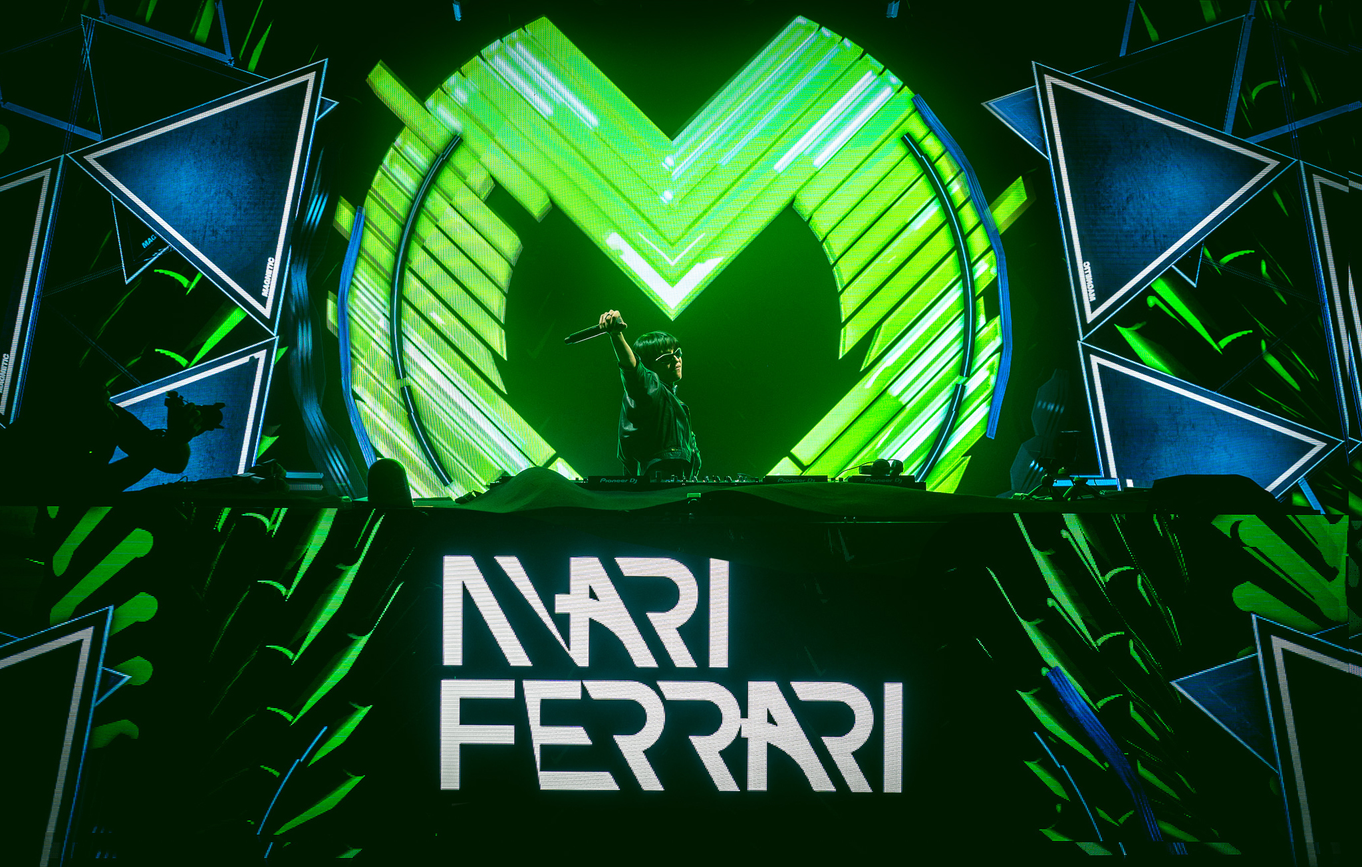
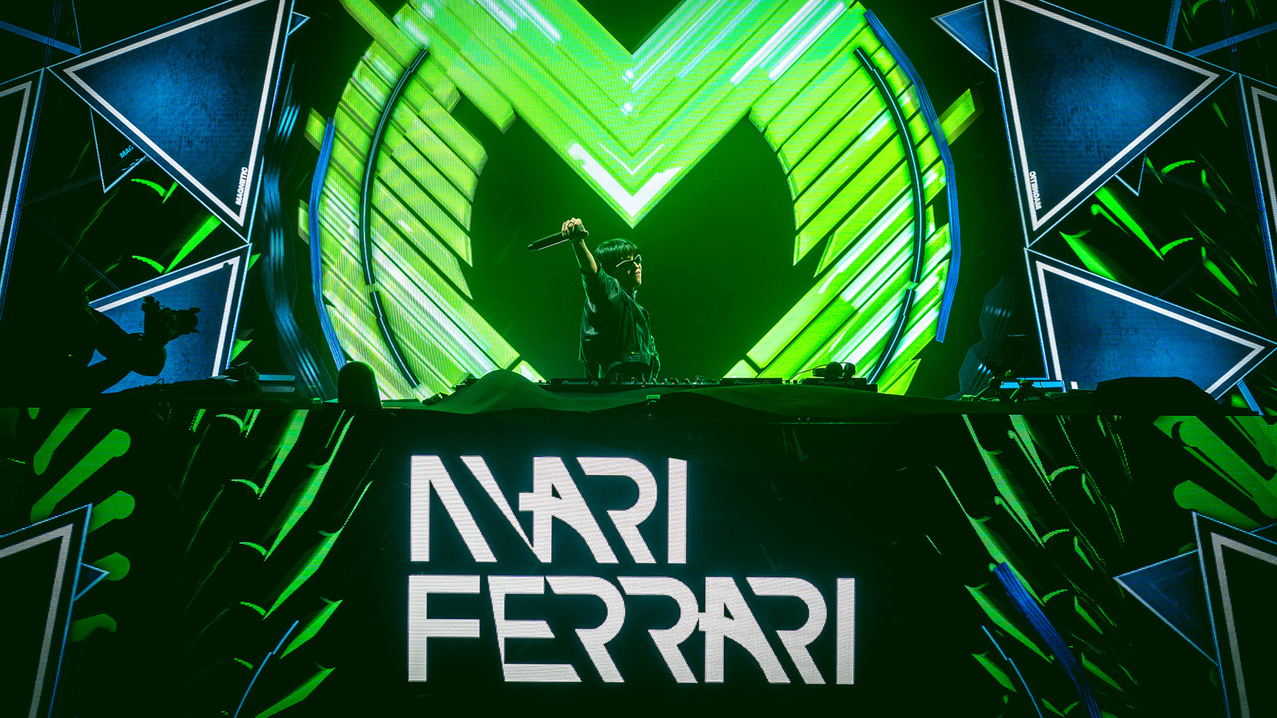
added image pro show

diff --git a/Events/Offline/best_actor.html b/Events/Offline/best_actor.html
@@ -163,8 +163,9 @@
                 <div class="cs-height_10 cs-height_lg_10"></div>
                 <div class="row">
                     <div class="col-6">
-                        <a href="https://forms.gle/bqYGR5kFEJmajXi79" target="_blank"
-                            class="cs-btn cs-style1 cs-btn_lg w-100 text-center"><span>Register Now !</span></a>
+                        <a href="https://docs.google.com/forms/d/e/1FAIpQLSdYe3sHgDcL5nviQDB09foFy6dzcuj2j840-VOkNg0Ph8vsxQ/viewform?usp=sf_link"
+                            target="_blank" class="cs-btn cs-style1 cs-btn_lg w-100 text-center"><span>Register Now
+                                !</span></a>
                     </div>
                 </div>
             </div>

diff --git a/Events/Offline/spot_photo.html b/Events/Offline/spot_photo.html
@@ -167,7 +167,7 @@
                 <div class="cs-height_10 cs-height_lg_10"></div>
                 <div class="row">
                     <div class="col-6">
-                        <a href="https://forms.gle/bqYGR5kFEJmajXi79" target="_blank"
+                        <a href="../../coming_soon.html" target="_blank"
                             class="cs-btn cs-style1 cs-btn_lg w-100 text-center"><span>Register Now !</span></a>
                     </div>
                 </div>

diff --git a/Events/Offline/treasure.html b/Events/Offline/treasure.html
@@ -177,7 +177,7 @@
                 <div class="cs-height_10 cs-height_lg_10"></div>
                 <div class="row">
                     <div class="col-6">
-                        <a href="https://forms.gle/bqYGR5kFEJmajXi79" target="_blank"
+                        <a href="../../coming_soon.html" target="_blank"
                             class="cs-btn cs-style1 cs-btn_lg w-100 text-center"><span>Register Now !</span></a>
                     </div>
                 </div>

diff --git a/index.html b/index.html
@@ -371,7 +371,7 @@
         </div>
         <div class="col-xl-4 col-sm-6">
           <div class="cs-iconbox cs-style3 cs-box_shadow cs-white_bg">
-            <img src="./assets/img/Pro/mary ferrari.jpg" alt="Logo" />
+            <img src="./assets/img/Pro/mary ferrari.webp" alt="Logo" />
           </div>
         </div>
         <div class="col-xl-4 col-sm-6">
